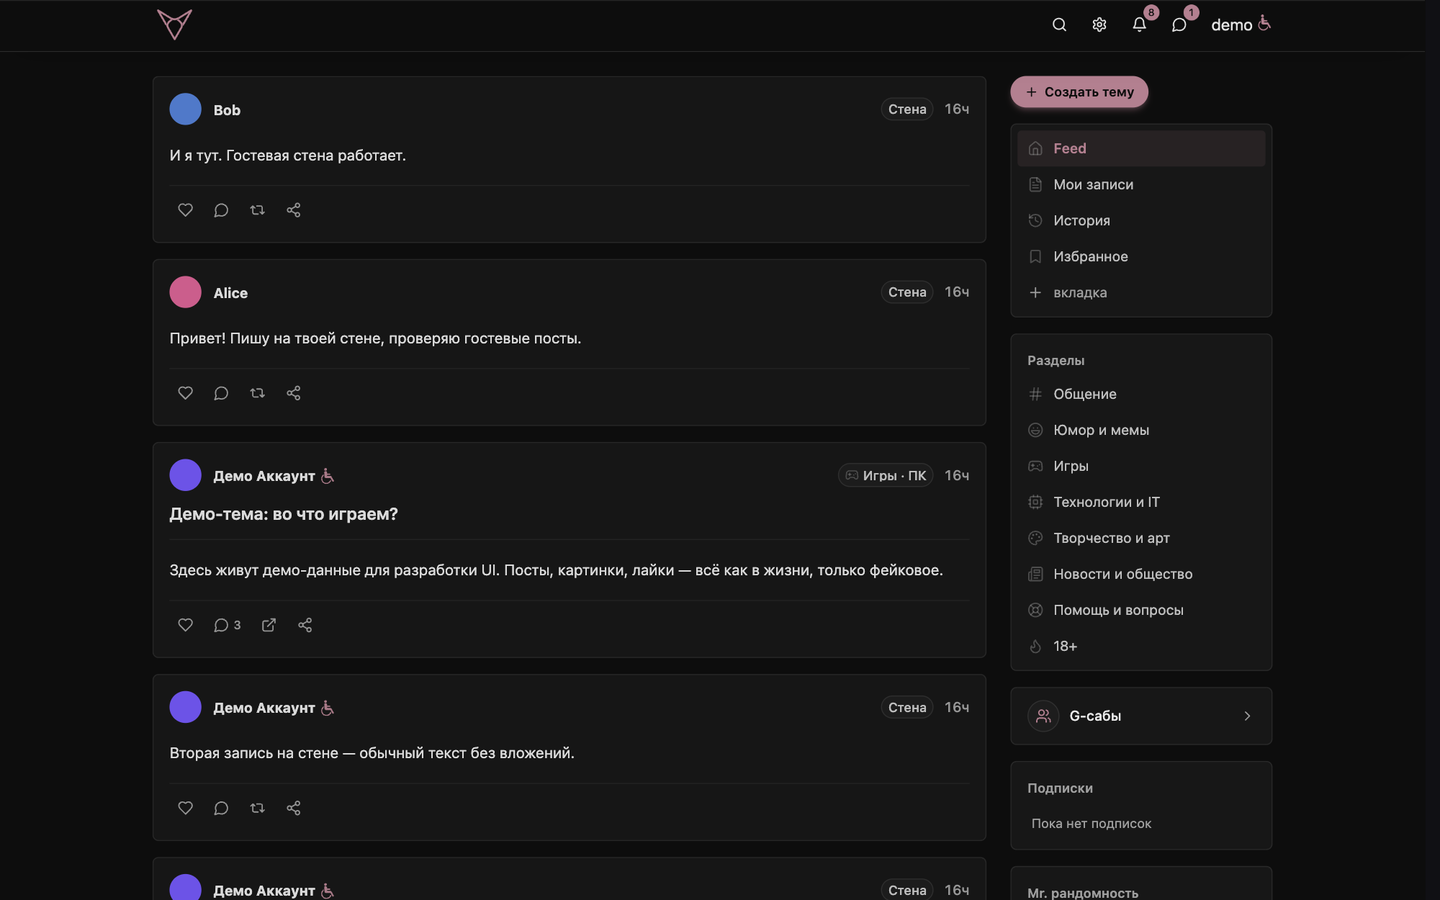
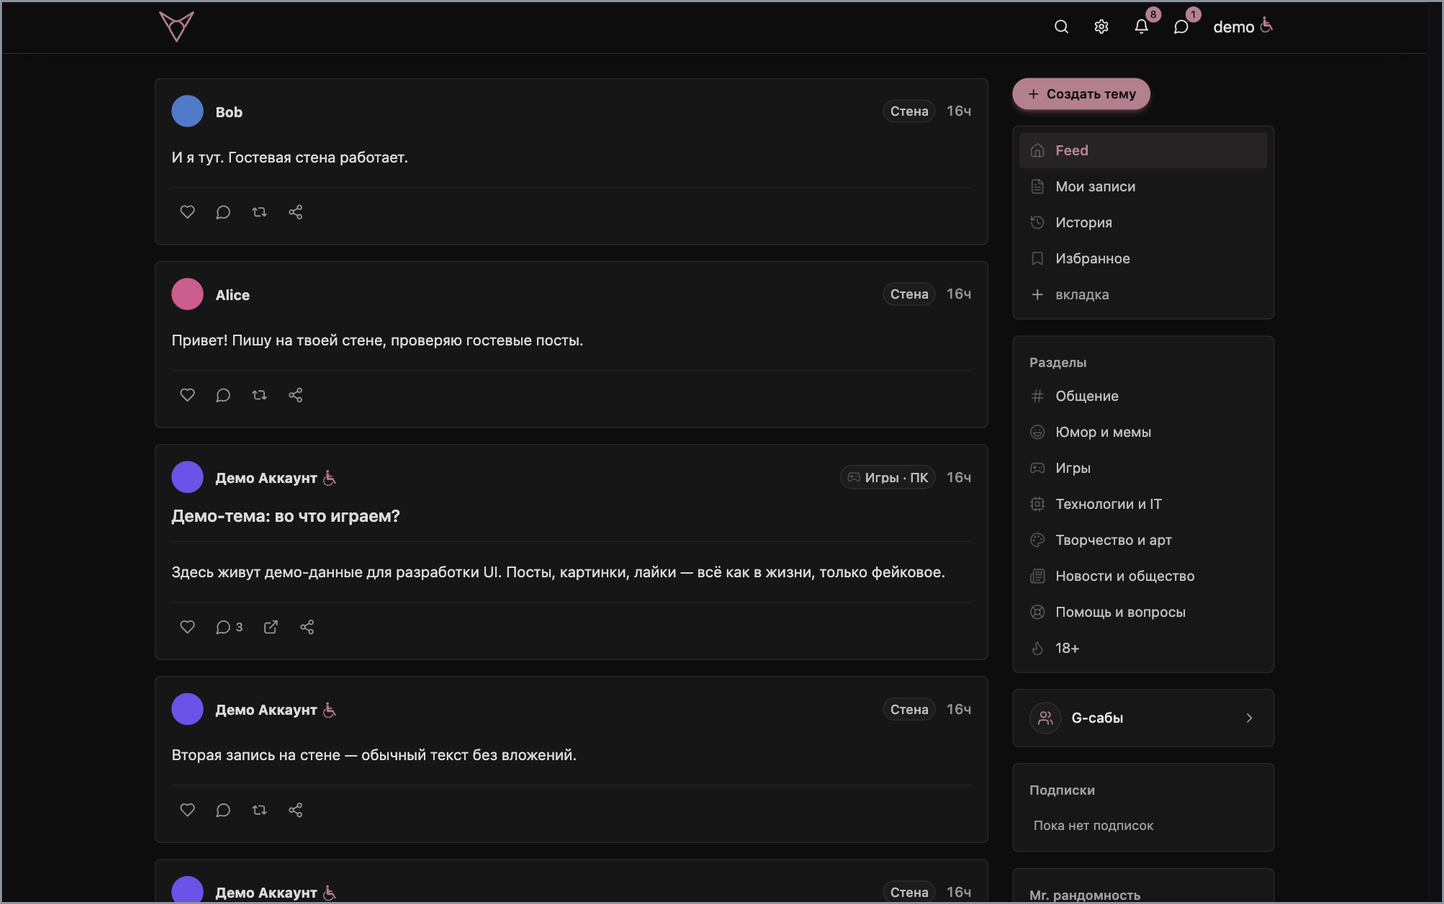
docs(readme): рамка кадрам и галерея в полную ширину
Кадр «Настройки → внешний вид» не отображался не потому, что битый: файл
валиден (8-bit RGB PNG, тот же формат, что у рабочих кадров), GitHub отдаёт
его 302 → raw со статусом 200 и content-type image/png, а <img> присутствует
в HTML страницы репозитория.

Причина в контрасте и масштабе. Средняя яркость этого кадра — 225 из 255,
а фон README на GitHub белый; в двухколоночной таблице кадр шириной 1440px
ужимался до ~490px (34%), и текст в интерфейсе становился неразличимым.
В сумме это читалось как пустой белый блок, то есть «не отобразилось».

- всем статичным кадрам и кадрам обеих гифок добавлена рамка 2px (#8B949E):
  светлый кадр теперь отделён от белого фона, тёмные — от тёмного;
- галерея разложена в полную ширину: каждый кадр идёт отдельным блоком с
  жирным подзаголовком и подписью вместо таблицы 2×N, поэтому интерфейс
  виден, а не превращается в размытое пятно.

diff --git a/README.ru.md b/README.ru.md
@@ -37,28 +37,33 @@ gomo6 — социальная сеть целиком: персональная
 
 ## Скриншоты
 
-Ниже — настоящий инстанс, поднятый локально на [демо-данных](scripts/seed.sh).
+Каждый кадр ниже — настоящий инстанс, поднятый локально на [демо-данных](scripts/seed.sh).
 
 **Лента** — доски, темы и посты стен в одном потоке, с боковой панелью разделов и подписками.
 
 ![Лента, тема «пепел»](docs/assets/readme/feed-dark.png)
 
-**18 встроенных тем**, светлых и тёмных, применяются мгновенно ко всему приложению.
+**Темы** — 18 встроенных тем, светлых и тёмных, применяются мгновенно ко всему приложению.
 
 ![Переключение тем на странице внешнего вида](docs/assets/readme/themes.gif)
 
-<table>
-<tr>
-<td width="50%"><img src="docs/assets/readme/profile-dark.png" alt="Профиль"><br><sub><b>Профиль</b> — стена и гостевые посты, статистика (записи / лайки / просмотры / гарма), вкладки достижений, постов, подарков и друзей</sub></td>
-<td width="50%"><img src="docs/assets/readme/messenger-dark.png" alt="Мессенджер"><br><sub><b>Мессенджер</b> — диалоги, заметки для себя (шифрование в браузере), галочки прочтения, присутствие</sub></td>
-</tr>
-<tr>
-<td><img src="docs/assets/readme/settings-appearance-light.png" alt="Настройки"><br><sub><b>Настройки → внешний вид</b> — темы с живым предпросмотром, режимы светлый / тёмный / системный</sub></td>
-<td><img src="docs/assets/readme/moderation-dark.png" alt="Модерация"><br><sub><b>Модерация</b> — очередь жалоб, апелляции, персонал и журнал действий</sub></td>
-</tr>
-</table>
+**Профиль** — стена с гостевыми постами, статистика (записи / лайки / просмотры / гарма) и вкладки достижений, постов, подарков и друзей.
 
-<sub>Ещё: <a href="docs/assets/readme/feed-lavender.png">лента в теме «космический лавандовый»</a> · <a href="docs/assets/readme/feed-scroll.gif">скролл ленты</a></sub>
+![Профиль](docs/assets/readme/profile-dark.png)
+
+**Мессенджер** — личные и групповые чаты, заметки для себя с шифрованием в браузере, галочки прочтения и присутствие.
+
+![Мессенджер](docs/assets/readme/messenger-dark.png)
+
+**Настройки → внешний вид** — темы с живым предпросмотром и переключатель светлого, тёмного и системного режима.
+
+![Настройки, раздел внешнего вида](docs/assets/readme/settings-appearance-light.png)
+
+**Модерация** — очередь жалоб, апелляции, персонал и журнал действий. Доступно админам и модераторам инстанса.
+
+![Модерация](docs/assets/readme/moderation-dark.png)
+
+<sub><b>Ещё:</b> <a href="docs/assets/readme/feed-lavender.png">лента в теме «космический лавандовый»</a> · <a href="docs/assets/readme/feed-scroll.gif">скролл ленты</a></sub>
 
 ## Возможности
 

diff --git a/README.md b/README.md
@@ -37,28 +37,33 @@ Backend — **Go (Gin)** on PostgreSQL, Redis, Garage (S3-compatible storage) an
 
 ## Screenshots
 
-Everything below is a real instance running the [demo dataset](scripts/seed.sh) locally.
+Every screenshot below is a real instance running the [demo dataset](scripts/seed.sh) locally.
 
 **Feed** — boards, threads and wall posts in one stream, with the section sidebar and subscriptions.
 
 ![Feed, ash theme](docs/assets/readme/feed-dark.png)
 
-**18 built-in themes**, light and dark, applied instantly across the whole app.
+**Themes** — 18 built-in themes, light and dark, applied instantly across the whole app.
 
 ![Switching themes on the appearance page](docs/assets/readme/themes.gif)
 
-<table>
-<tr>
-<td width="50%"><img src="docs/assets/readme/profile-dark.png" alt="Profile"><br><sub><b>Profile</b> — wall, guest posts, stats (posts / likes / views / garma), tabs for achievements, posts, gifts and friends</sub></td>
-<td width="50%"><img src="docs/assets/readme/messenger-dark.png" alt="Messenger"><br><sub><b>Messenger</b> — conversations, notes to self (E2E in the browser), read receipts, presence</sub></td>
-</tr>
-<tr>
-<td><img src="docs/assets/readme/settings-appearance-light.png" alt="Settings"><br><sub><b>Settings → appearance</b> — themes with live preview, light / dark / system mode</sub></td>
-<td><img src="docs/assets/readme/moderation-dark.png" alt="Moderation"><br><sub><b>Moderation</b> — report queue, appeals, staff and the action log</sub></td>
-</tr>
-</table>
+**Profile** — wall with guest posts, stats (posts / likes / views / garma) and tabs for achievements, posts, gifts and friends.
 
-<sub>More: <a href="docs/assets/readme/feed-lavender.png">feed in the cosmic-lavender theme</a> · <a href="docs/assets/readme/feed-scroll.gif">feed scroll</a></sub>
+![Profile](docs/assets/readme/profile-dark.png)
+
+**Messenger** — 1:1 and group chats, notes to self encrypted in the browser, read receipts and presence.
+
+![Messenger](docs/assets/readme/messenger-dark.png)
+
+**Settings → appearance** — themes with live preview and the light / dark / system mode switch.
+
+![Settings, appearance section](docs/assets/readme/settings-appearance-light.png)
+
+**Moderation** — report queue, appeals, staff and the action log. Available to instance admins and moderators.
+
+![Moderation](docs/assets/readme/moderation-dark.png)
+
+<sub><b>More:</b> <a href="docs/assets/readme/feed-lavender.png">feed in the cosmic-lavender theme</a> · <a href="docs/assets/readme/feed-scroll.gif">feed scroll</a></sub>
 
 ## Features
 
